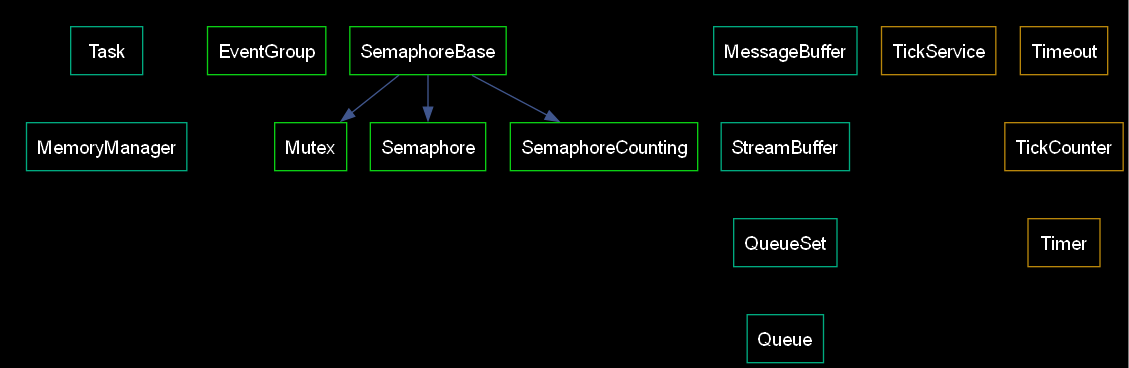
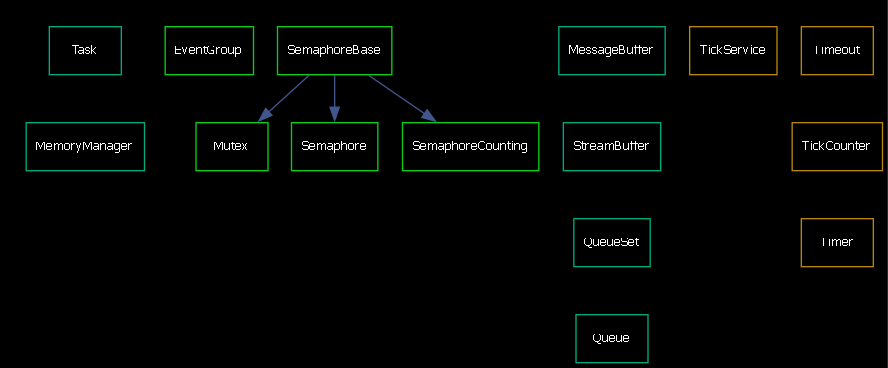
Update Lib::FreeRTOS

diff --git a/Lib/FreeRTOS/index.html b/Lib/FreeRTOS/index.html
@@ -138,21 +138,21 @@ $(function(){initNavTree('index.html',''); initResizable(true); });
 </table>
 <div class="dotgraph">
 <img src="dot_ClassDiagram.png" alt="dot_ClassDiagram.png" border="0" usemap="#dot_ClassDiagram.map"/>
-<map name="dot_ClassDiagram.map" id="dot_ClassDiagram.map"><area shape="rect" href="d8/d72/a00199.html" title="Task class" alt="" coords="71,27,143,75"/>
-<area shape="rect" href="de/db9/a00159.html" title="MemoryManager" alt="" coords="26,123,187,171"/>
-<area shape="rect" href="dd/db2/a00151.html" title="EventGroup" alt="" coords="208,27,326,75"/>
-<area shape="rect" href="d6/daa/a00187.html" title="SemaphoreBase" alt="" coords="350,27,506,75"/>
-<area shape="rect" href="dc/de6/a00167.html" title="Mutex" alt="" coords="275,123,347,171"/>
-<area shape="rect" href="dc/d52/a00183.html" title="Semaphore" alt="" coords="370,123,486,171"/>
-<area shape="rect" href="d9/dd0/a00191.html" title="SemaphoreCounting" alt="" coords="510,123,698,171"/>
-<area shape="rect" href="dd/dae/a00163.html" title="MessageBuffer" alt="" coords="714,27,857,75"/>
-<area shape="rect" href="d3/d2a/a00195.html" title="StreamBuffer" alt="" coords="721,123,850,171"/>
-<area shape="rect" href="db/dd9/a00179.html" title="QueueSet" alt="" coords="734,219,837,267"/>
-<area shape="rect" href="de/d45/a00175.html" title="Queue" alt="" coords="747,315,824,363"/>
-<area shape="rect" href="dd/ded/a00211.html" title="TickService" alt="" coords="882,27,996,75"/>
-<area shape="rect" href="de/dd2/a00207.html" title="TickCounter" alt="" coords="1005,123,1123,171"/>
-<area shape="rect" href="dc/d28/a00223.html" title="Timer" alt="" coords="1028,219,1100,267"/>
-<area shape="rect" href="dd/df3/a00219.html" title="Timeout" alt="" coords="1020,27,1108,75"/>
+<map name="dot_ClassDiagram.map" id="dot_ClassDiagram.map"><area shape="rect" href="d8/d72/a00199.html" title="Task class" alt="" coords="49,27,121,75"/>
+<area shape="rect" href="de/db9/a00159.html" title="MemoryManager" alt="" coords="26,123,144,171"/>
+<area shape="rect" href="dd/db2/a00151.html" title="EventGroup" alt="" coords="165,27,254,75"/>
+<area shape="rect" href="d6/daa/a00187.html" title="SemaphoreBase" alt="" coords="278,27,392,75"/>
+<area shape="rect" href="dc/de6/a00167.html" title="Mutex" alt="" coords="196,123,268,171"/>
+<area shape="rect" href="dc/d52/a00183.html" title="Semaphore" alt="" coords="292,123,378,171"/>
+<area shape="rect" href="d9/dd0/a00191.html" title="SemaphoreCounting" alt="" coords="402,123,539,171"/>
+<area shape="rect" href="dd/dae/a00163.html" title="MessageBuffer" alt="" coords="559,27,665,75"/>
+<area shape="rect" href="d3/d2a/a00195.html" title="StreamBuffer" alt="" coords="563,123,661,171"/>
+<area shape="rect" href="db/dd9/a00179.html" title="QueueSet" alt="" coords="574,219,650,267"/>
+<area shape="rect" href="de/d45/a00175.html" title="Queue" alt="" coords="576,315,648,363"/>
+<area shape="rect" href="dd/ded/a00211.html" title="TickService" alt="" coords="690,27,777,75"/>
+<area shape="rect" href="de/dd2/a00207.html" title="TickCounter" alt="" coords="792,123,882,171"/>
+<area shape="rect" href="dc/d28/a00223.html" title="Timer" alt="" coords="801,219,873,267"/>
+<area shape="rect" href="dd/df3/a00219.html" title="Timeout" alt="" coords="801,27,873,75"/>
 </map>
 </div>
  </div></div><!-- PageDoc -->
